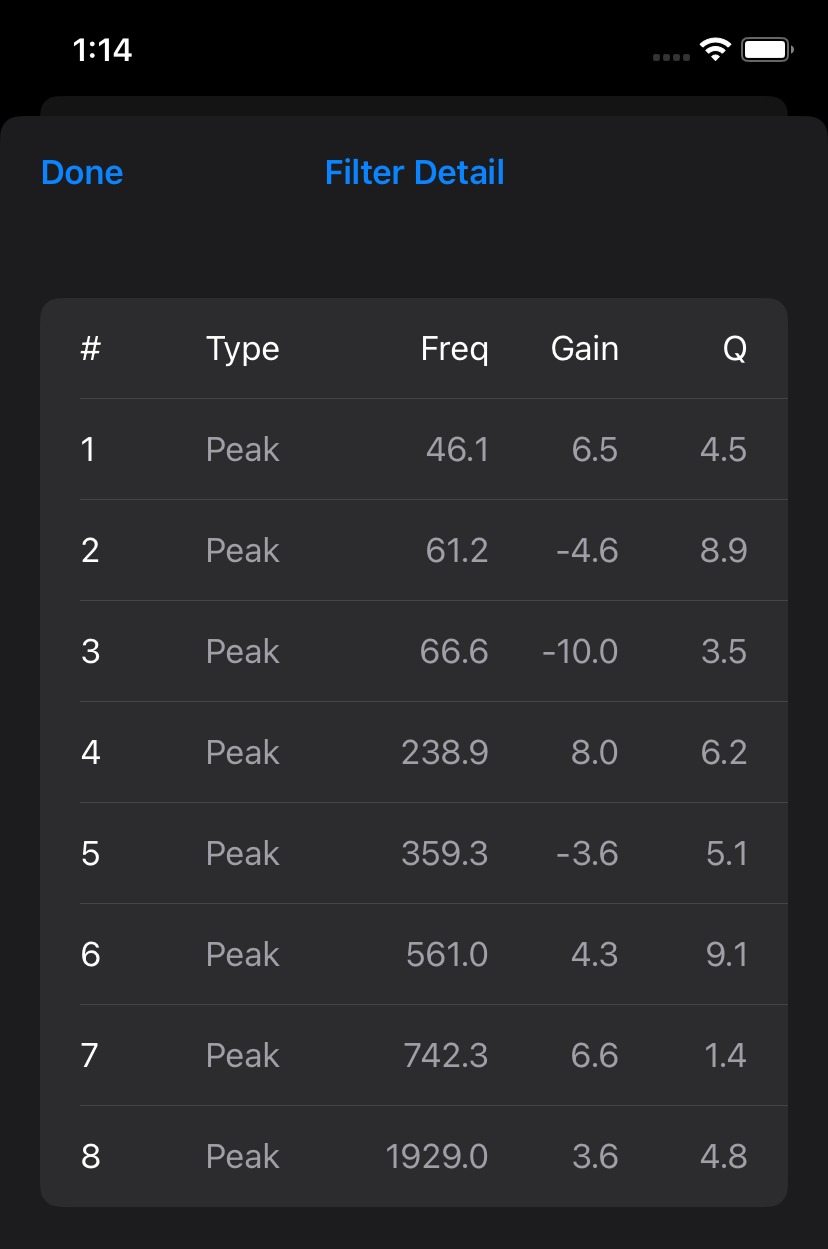
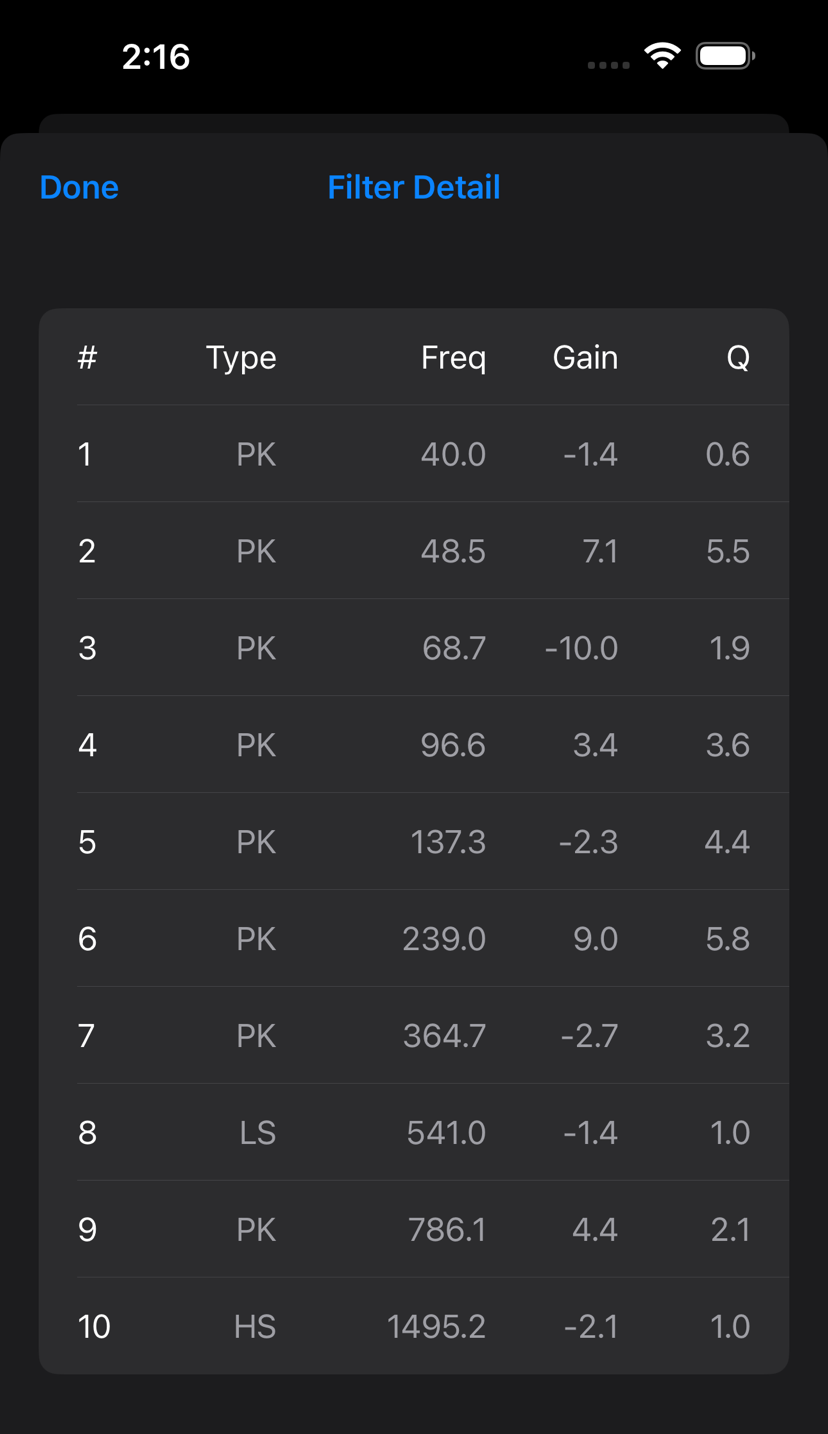
Updating equalization screenshots

diff --git a/docs/tuning/equalization.md b/docs/tuning/equalization.md
@@ -53,7 +53,7 @@ HouseCurve generates a filter by focusing on regions with the largest deviation 
 
 The filter produced by HouseCurve is controlled by the [filter type](../manual/equalize_setup.md#filter-type) setting.  FIR is higher fidelity than PEQ, but requires an audio system with a convolution engine (ex: Roon, Volumio, etc).  PEQ requires a parametric equalizer.  Note - if your audio system has a graphic equalizer (GEQ) it lacks the precision required for automatic equalization, try [manual equalization](#manual-equalization) instead.
 
-When filter type is PEQ, you can view the individual filters that make up the correction by tapping <img src="/assets/img/detail.png" alt="Detail" class="app-icon">.  This will display the Filter Detail screen, shown below.  This screen is handy if you need to manually enter the PEQ parameters into your audio system.
+When filter type is PEQ, you can view the individual filters that make up the correction by tapping <img src="/assets/img/detail.png" alt="Detail" class="app-icon">.  This will display the Filter Detail screen, shown below.  This screen is handy if you need to manually enter the PEQ parameters into your audio system (PK = peak filter, HS = high shelf, LS = low shelf).
 
 ![filter detail screen](/assets/img/equalize_detail.png "Filter details can be imported into your audio system")
 {: .app-portrait }
